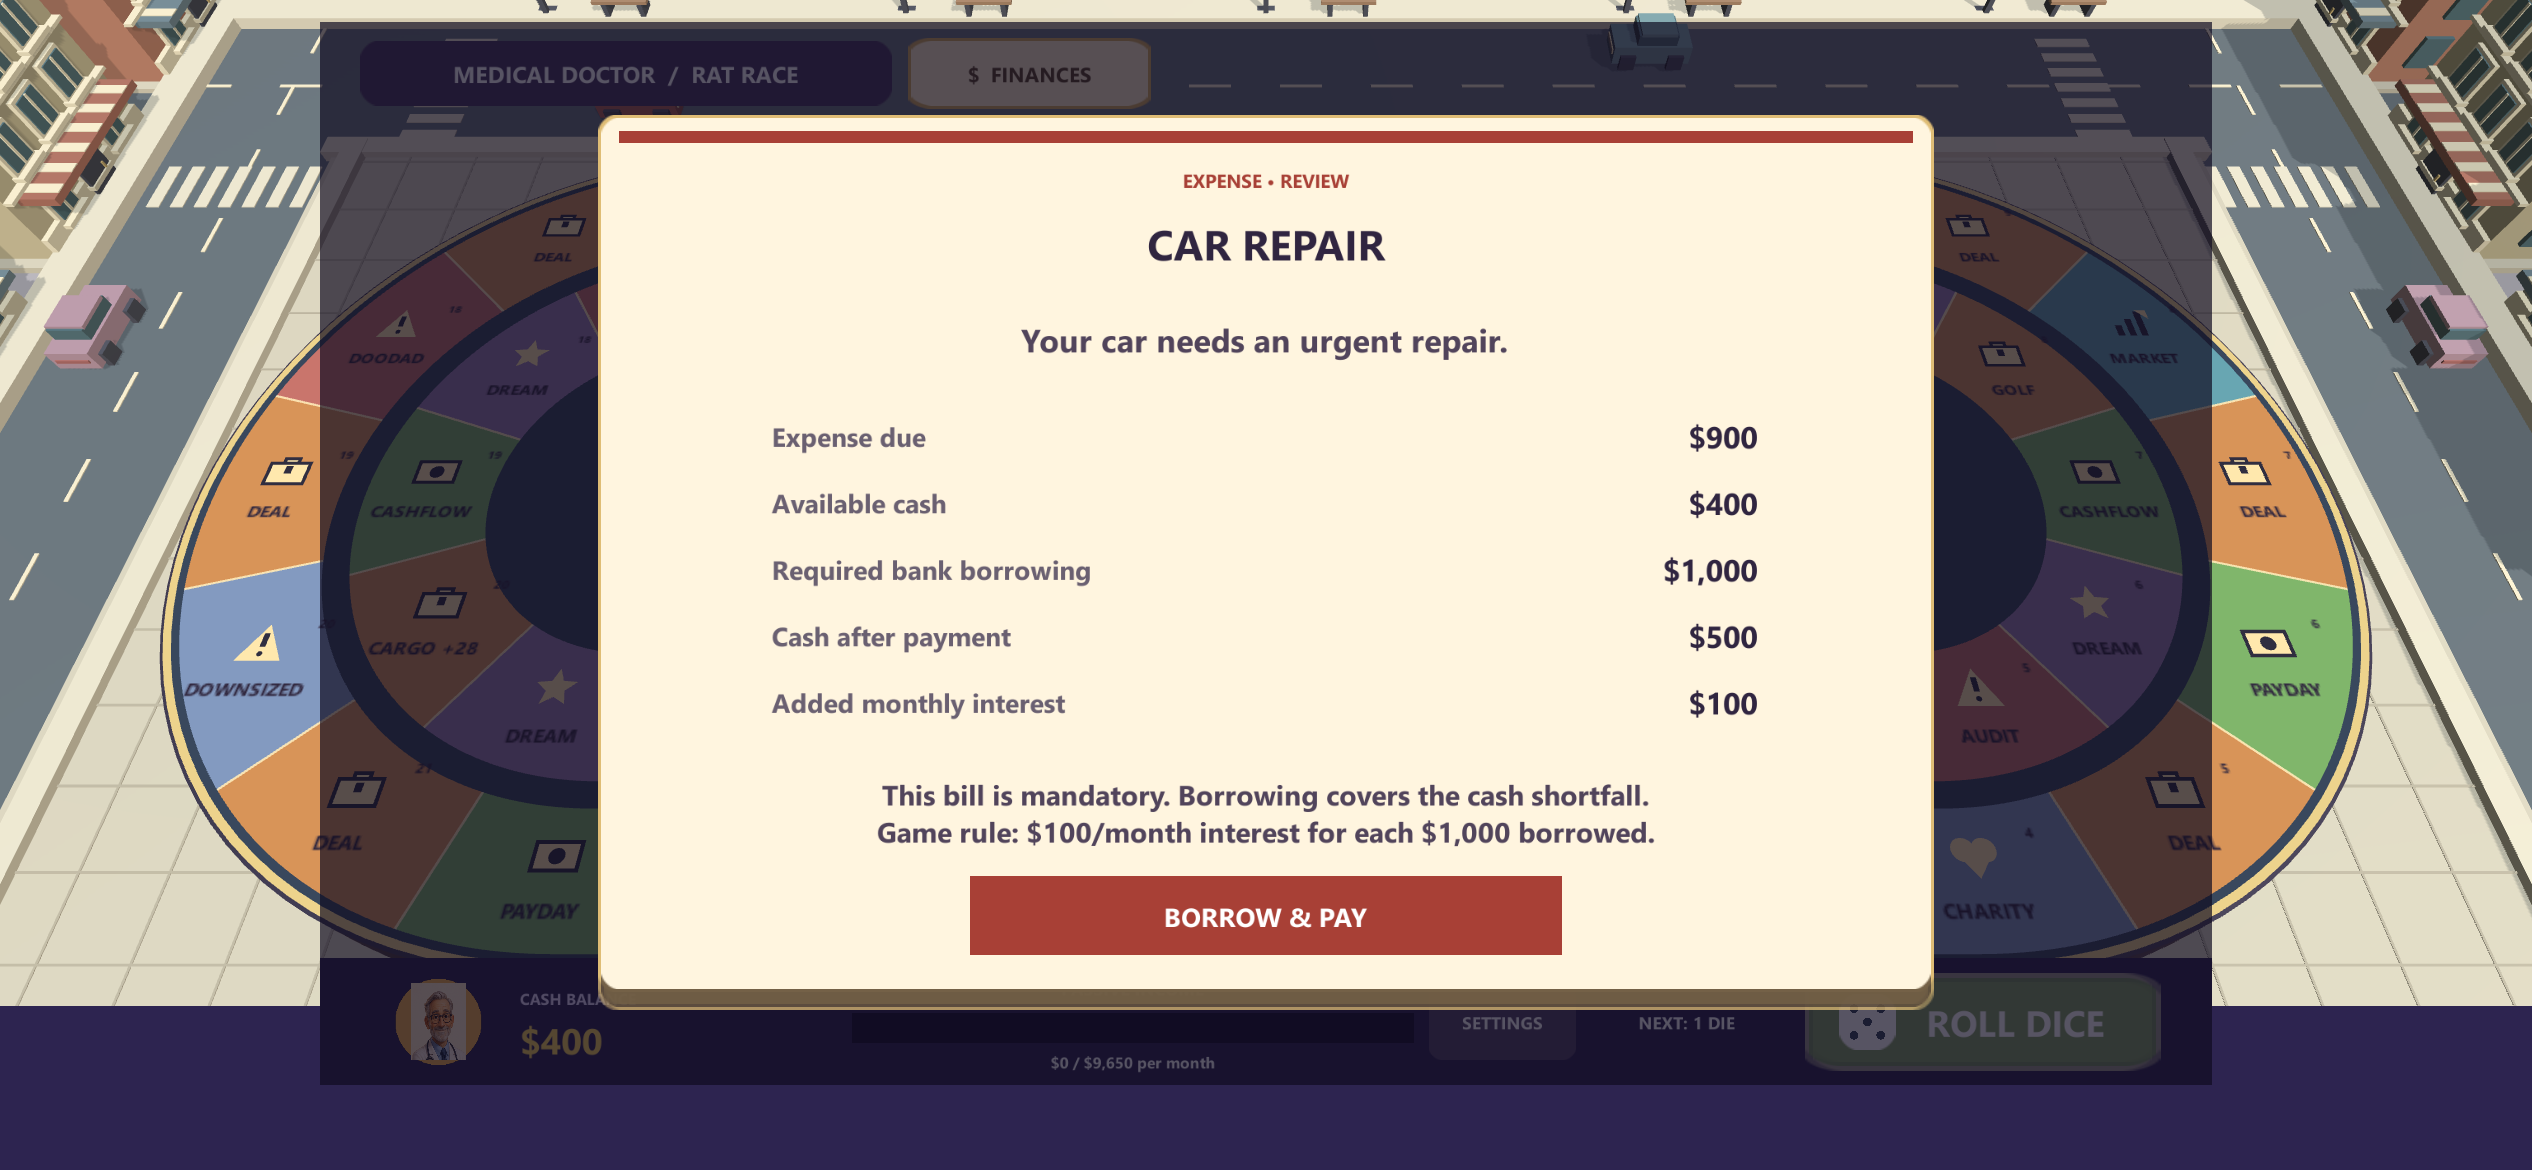
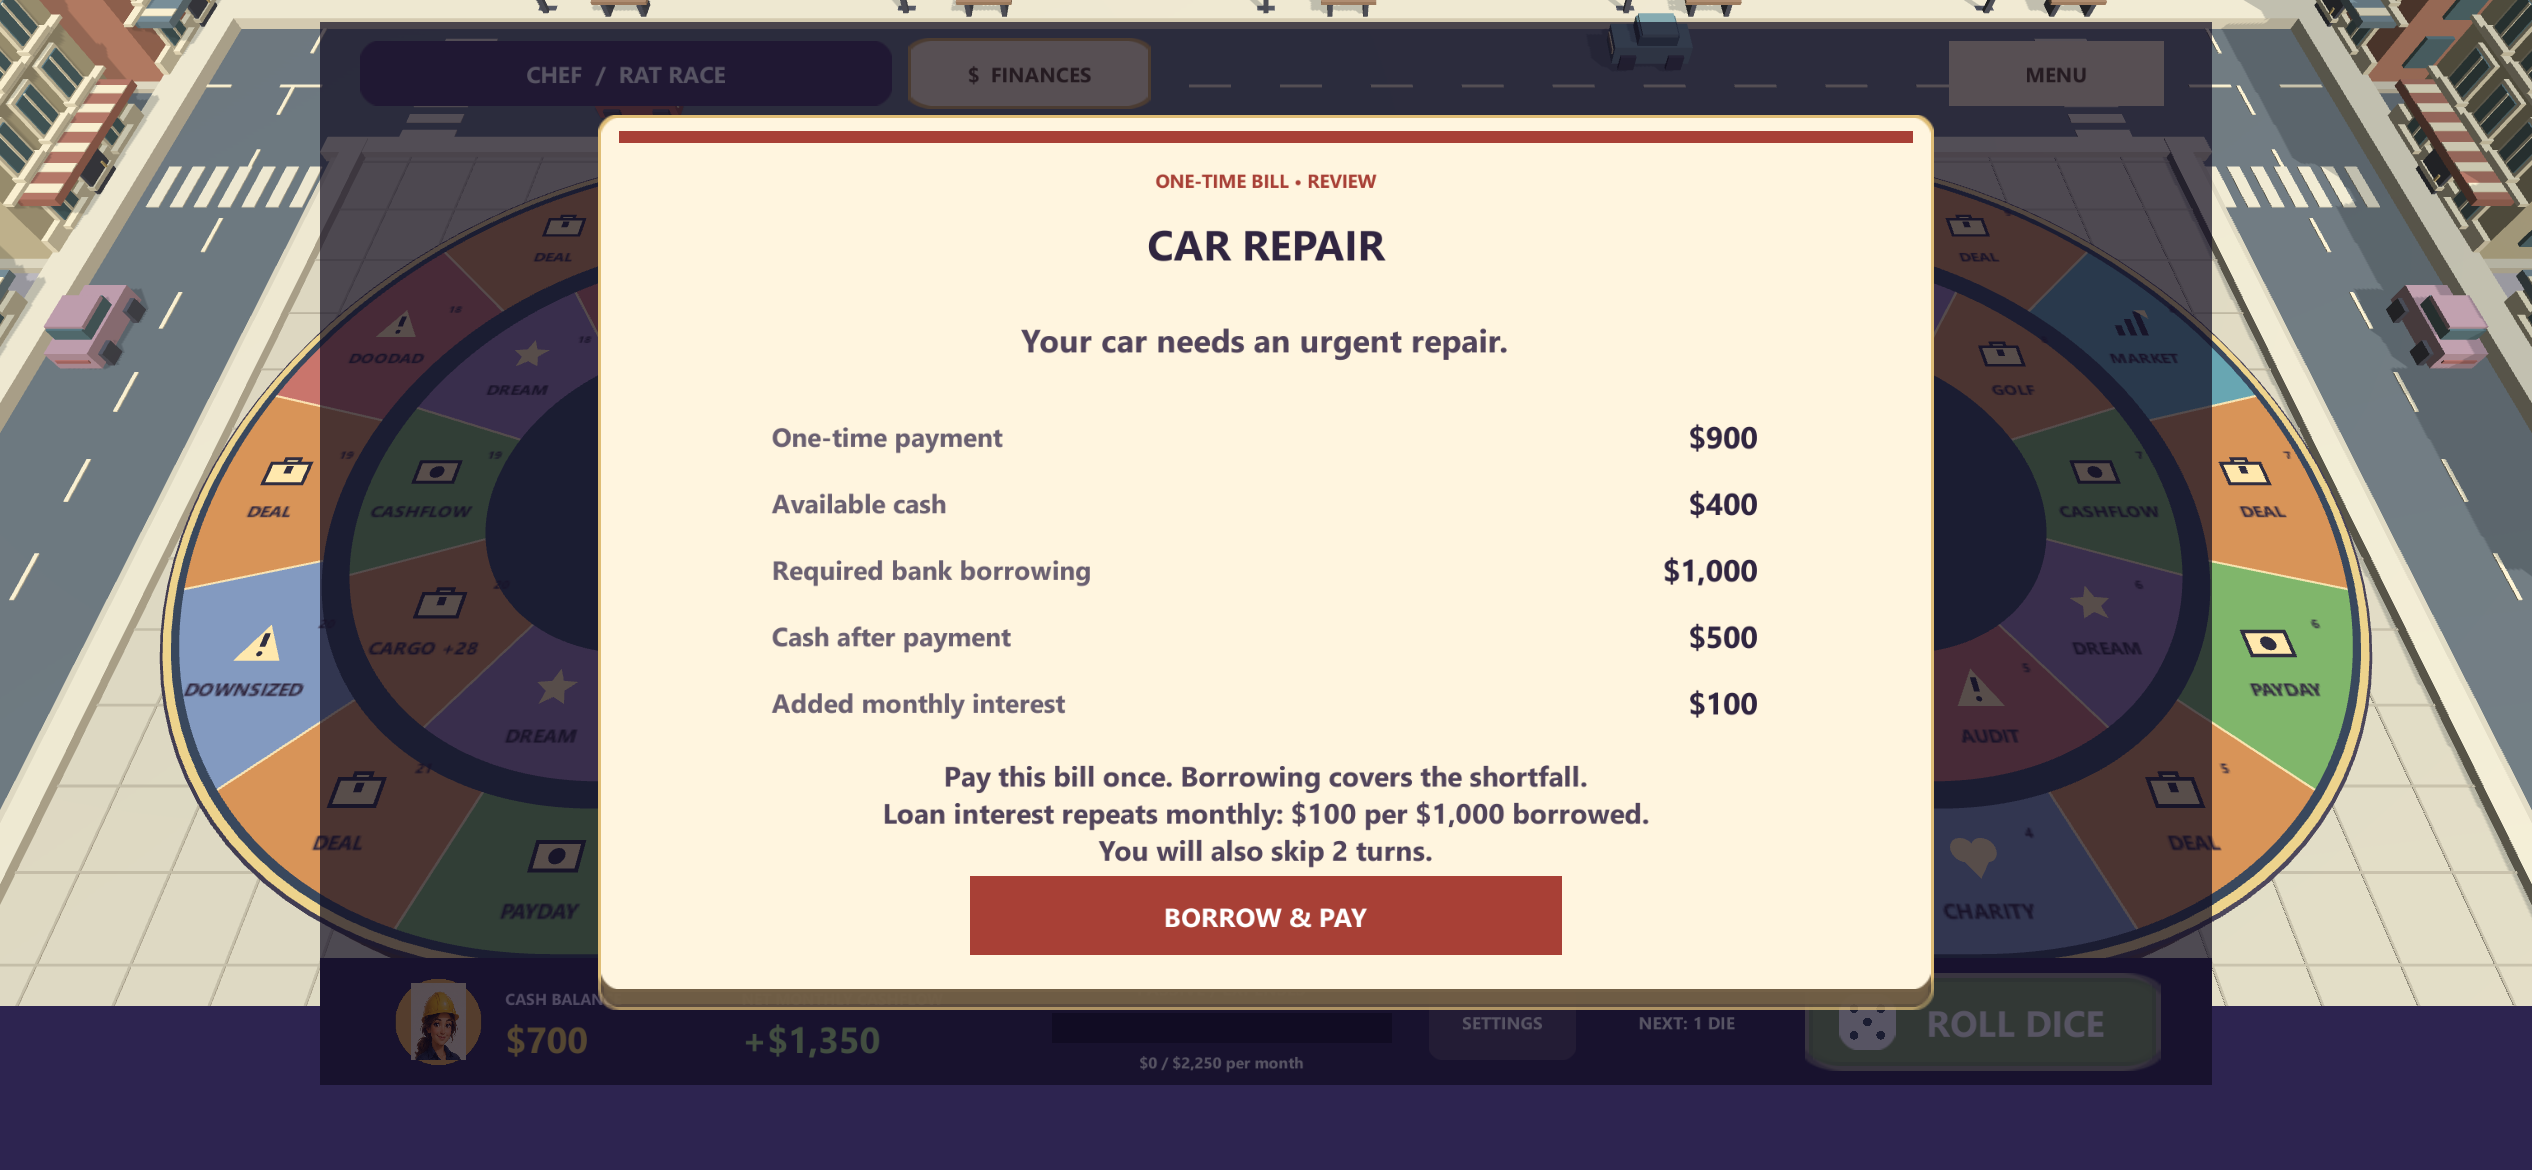
Implement event receipt system for better transaction feedback; enhance expense and income notifications

diff --git a/Assets/Editor/EventReceiptReview.cs b/Assets/Editor/EventReceiptReview.cs
@@ -1,0 +1,61 @@
+using System;
+using System.IO;
+using System.Reflection;
+using UnityEditor;
+using UnityEngine;
+using UnityEngine.UI;
+
+[InitializeOnLoad]
+public static class EventReceiptReview
+{
+    const string Root="work/event-receipt-review/";
+    const BindingFlags F=BindingFlags.Instance|BindingFlags.NonPublic;
+    static bool running;static int step;static double next;
+    static CashflowGame G=>UnityEngine.Object.FindObjectOfType<CashflowGame>();
+    static object Call(string name,params object[] args)=>typeof(CashflowGame).GetMethod(name,F).Invoke(G,args);
+    static object Get(string name)=>typeof(CashflowGame).GetField(name,F).GetValue(G);
+    static void Set(string name,object value)=>typeof(CashflowGame).GetField(name,F).SetValue(G,value);
+    static BoardEventReceipt R=>(BoardEventReceipt)Get("eventReceipt");
+    static void Check(bool value,string message){if(!value)throw new Exception(message);}
+    static void Shot(string name){
+        Canvas.ForceUpdateCanvases();ScreenCapture.CaptureScreenshot(Root+name+".png");
+        foreach(var t in UnityEngine.Object.FindObjectsOfType<Text>()){
+            if(t.transform.IsChildOf(R.transform)||t.transform.IsChildOf(((GameObject)Get("modal")).transform))
+                Check(t.preferredHeight<=t.rectTransform.rect.height+2,"Clipped text: "+t.text);
+        }
+    }
+    static EventReceiptReview(){EditorApplication.update+=Tick;}
+    static void Tick(){
+        if(EditorApplication.isCompiling)return;
+        if(File.Exists("work/run-event-receipt-review")){
+            if(!EditorApplication.isPlaying){EditorApplication.isPlaying=true;return;}
+            File.Delete("work/run-event-receipt-review");Directory.CreateDirectory(Root);running=true;step=0;next=EditorApplication.timeSinceStartup+2;
+        }
+        if(!running||EditorApplication.timeSinceStartup<next)return;
+        try{
+            switch(step){
+                case 0:Call("StartGame");((BoardWorld)Get("world")).ReducedMotion=true;break;
+                case 1:
+                    int before=(int)Get("cash"),net=(int)Call("Income")-(int)Call("Expenses");
+                    Call("CollectMovementPaydays",4,1);Call("Land","PAYDAY");
+                    Check((int)Get("cash")==before+net&&Get("modal")==null,"Landing duplicated payment or opened a blocking modal");
+                    Call("Refresh");Call("ShowDealChoice");Check(R.transform.GetSiblingIndex()>((GameObject)Get("modal")).transform.GetSiblingIndex(),"Next card obscures Payday receipt");
+                    Check(!R.GetComponent<CanvasGroup>().blocksRaycasts,"Receipt blocks input");Check(R.Title.text.Contains("PAYDAY"),"Missing Payday receipt");Shot("payday-with-deal");break;
+                case 2:Call("CloseModal");Set("cash",400);Call("ShowRequiredExpense","CAR REPAIR","Your car needs an urgent repair.",900,2);Shot("specific-bill");break;
+                case 3:
+                    var pay=GameObject.Find("Pay Required Expense").GetComponent<Button>();pay.onClick.Invoke();pay.onClick.Invoke();
+                    Check((int)Get("cash")==500&&(int)Get("bankLoan")==1000,"Expense payment duplicated or miscalculated");break;
+                case 4:Check(R.Title.text.Contains("CAR REPAIR")&&R.Detail.text.Contains("Monthly interest +$100"),"Expense receipt missing borrowing cost");Call("ShowStatement");Shot("paid-receipt");break;
+                case 5:Call("CloseModal");int cash=(int)Get("cash"),expense=(int)Call("Expenses");Call("Land","BABY");Check((int)Get("cash")==cash&&(int)Call("Expenses")>expense,"Recurring event changed cash");Shot("monthly-change");break;
+                case 6:Call("StartGame");break;
+                case 7:Set("fastTrack",true);Set("bankLoan",100000);Call("Payday");Check(R.Title.text.Contains("CASHFLOW DAY • -$"),"Negative Cashflow Day presented as collection");Call("Land","CASHFLOW DAY");Check(Get("modal")==null,"Cashflow Day blocks play");break;
+                case 8:
+                    // Verify FIFO instead of overwriting a receipt when two events arrive together.
+                    R.Show("SECOND RECEIPT","Queued",Color.black);Check(!R.Title.text.Contains("SECOND"),"Receipt overwritten");break;
+                case 11:Check(R.Title.text=="SECOND RECEIPT","Queued receipt never appeared");Call("StartGame");break;
+                case 12:Check(R.GetComponent<CanvasGroup>().alpha==0,"Old receipt survived a new game");File.WriteAllText(Root+"results.txt","PASS: landing paid once without modal; receipt visible above following deal and non-interactive; specific bill and borrowing receipt; duplicate-payment guard; recurring child expense without immediate cash charge; negative Fast Track receipt; FIFO queue and new-game reset; card text bounds. Screenshots at "+Screen.width+"x"+Screen.height+".\n");running=false;return;
+            }
+            step++;next=EditorApplication.timeSinceStartup+2;
+        }catch(Exception e){running=false;File.WriteAllText(Root+"results.txt","FAIL: "+e);Debug.LogException(e);}
+    }
+}

diff --git a/Assets/Scripts/CashflowFeedback.cs b/Assets/Scripts/CashflowFeedback.cs
@@ -4,6 +4,16 @@ using UnityEngine.UI;
 
 public partial class CashflowGame
 {
+    BoardEventReceipt eventReceipt;
+    void CreateEventReceipt()
+    {
+        var panel=Panel(uiRoot,Vector2.one*.5f,Vector2.one*.5f,new Vector2(480,50),C("#21756a"));panel.name="Board Event Receipt";
+        Place(panel.GetComponent<RectTransform>(),180,325,480,50);panel.GetComponent<Image>().sprite=RoundedSprite();panel.GetComponent<Image>().type=Image.Type.Sliced;panel.GetComponent<Image>().raycastTarget=false;
+        eventReceipt=panel.AddComponent<BoardEventReceipt>();eventReceipt.Background=panel.GetComponent<Image>();
+        eventReceipt.Title=Label(panel.transform,"",14);eventReceipt.Title.fontStyle=FontStyle.Bold;Place(eventReceipt.Title.rectTransform,0,10,460,23);
+        eventReceipt.Detail=Label(panel.transform,"",11);Place(eventReceipt.Detail.rectTransform,0,-12,460,20);
+    }
+    void Receipt(string title,string detail,Color color){if(eventReceipt!=null)eventReceipt.Show(title,detail,color);}
     class HistoryEntry { public string message,changes; }
     readonly List<HistoryEntry> history=new List<HistoryEntry>();
     int historyCash,historyFlow,historyDebt,lastRoll;
@@ -56,22 +66,27 @@ public partial class CashflowGame
     }
     void ShowUnexpectedExpense()
     {
+        string[] titles={"CAR REPAIR","APPLIANCE REPLACEMENT","HOME REPAIR","FAMILY TRIP"};
         string[] reasons={"Your car needs an urgent repair.","A broken appliance needs replacing.","An unexpected home repair bill arrives.","A family trip costs more than planned."};
-        ShowRequiredExpense("UNEXPECTED EXPENSE",reasons[Random.Range(0,reasons.Length)],Random.Range(100,1001),0);
+        int index=Random.Range(0,reasons.Length);
+        ShowRequiredExpense(titles[index],reasons[index],Random.Range(100,1001),0);
     }
     void ShowRequiredExpense(string title,string reason,int cost,int turns)
     {
         int loan=Mathf.CeilToInt(Mathf.Max(0,cost-cash)/1000f)*1000;
-        var card=CardShell("EXPENSE • REVIEW",title,C("#a84036"),new Vector2(900,590));
+        var card=CardShell("ONE-TIME BILL • REVIEW",title,C("#a84036"),new Vector2(900,590));
         var story=Label(card.transform,reason,22);story.color=C("#51445b");Place(story.rectTransform,0,145,810,70);
-        FinanceRow(card.transform,"Expense due",Money(cost),80);FinanceRow(card.transform,"Available cash",Money(cash),35);
+        FinanceRow(card.transform,"One-time payment",Money(cost),80);FinanceRow(card.transform,"Available cash",Money(cash),35);
         FinanceRow(card.transform,"Required bank borrowing",Money(loan),-10);FinanceRow(card.transform,"Cash after payment",Money(cash+loan-cost),-55);
         FinanceRow(card.transform,"Added monthly interest",Money(loan/10),-100);
-        var note=Label(card.transform,loan>0?"This bill is mandatory. Borrowing covers the cash shortfall.\nGame rule: $100/month interest for each $1,000 borrowed.":"Pay this bill once from your available cash.\nNo new borrowing is needed.",19);note.color=C("#51445b");Place(note.rectTransform,0,-175,810,70);
+        string noteText=loan>0?"Pay this bill once. Borrowing covers the shortfall.\nLoan interest repeats monthly: $100 per $1,000 borrowed.":"Pay this bill once. Your monthly expenses stay the same.";
+        if(turns>0)noteText+="\nYou will also skip "+turns+" turns.";
+        var note=Label(card.transform,noteText,19);note.color=C("#51445b");Place(note.rectTransform,0,-175,810,80);
         bool resolved=false;var pay=Button(card.transform,loan>0?"BORROW & PAY":"PAY EXPENSE",C("#a84036"),()=>{
             if(resolved)return;resolved=true;
             int needed=Mathf.CeilToInt(Mathf.Max(0,cost-cash)/1000f)*1000;bankLoan+=needed;cash+=needed-cost;skipTurns=turns;
             CloseModal();Log(title+": paid "+Money(cost)+(needed>0?"; borrowed "+Money(needed):"")+(turns>0?"; skip "+turns+" turns.":"."));Refresh();world.Audio.Expense();
+            Receipt(title+" • PAID "+Money(cost),needed>0?"Borrowed "+Money(needed)+" • Monthly interest +"+Money(needed/10):"One-time payment • Monthly cashflow unchanged",C("#873d3a"));
         });pay.name="Pay Required Expense";Place(pay.GetComponent<RectTransform>(),0,-245,400,54);SetButtonText(pay,Color.white,18);
     }
 }

diff --git a/Assets/Scripts/CashflowGame.cs b/Assets/Scripts/CashflowGame.cs
@@ -180,6 +180,7 @@ public partial class CashflowGame : MonoBehaviour
         Place(settings.GetComponent<RectTransform>(),160,0,100,52);
         settings.GetComponent<Image>().sprite=RoundedSprite();
         SetButtonText(settings,Color.white,12);
+        CreateEventReceipt();
 
     }
     void ShowBoardSettings()
@@ -201,6 +202,7 @@ public partial class CashflowGame : MonoBehaviour
     GameObject Modal(Vector2 size)
     {
         CloseModal(); modal=Panel(uiRoot,Vector2.zero,Vector2.one,Vector2.zero,new Color(.06f,.04f,.12f,.7f));modal.name="Modal Blocker";
+        if(eventReceipt!=null)eventReceipt.transform.SetAsLastSibling();
         var panel=Panel(modal.transform,new Vector2(.5f,.5f),new Vector2(.5f,.5f),size,C("#302540"));panel.GetComponent<Image>().sprite=RoundedSprite();panel.GetComponent<Image>().type=Image.Type.Sliced;
         if(world!=null)world.InputBlocked=true;if(rollButton!=null)rollButton.interactable=false;return panel;
     }
@@ -323,18 +325,18 @@ public partial class CashflowGame : MonoBehaviour
     }
     void Land(string tile)
     {
-        if(tile=="PAYDAY"){ ShowEventPanel("PAYDAY","Your monthly cashflow was added to cash.\n\nCollected: "+Money(Income()-Expenses()),C("#a16207")); return; }
+        if(tile=="PAYDAY")return; // Movement already paid and displayed its receipt.
         if(tile=="OPPORTUNITY"){ ShowDealChoice(); return; }
         if(tile=="DOODAD"){ ShowUnexpectedExpense(); return; }
         if(tile=="CHARITY"){ShowCharityChoice();return;}
-        if(tile=="BABY"){ if(children>=3){ShowEventPanel("FAMILY UPDATE","Your family is already at the three-child game limit. Monthly expenses stay the same.",C("#be185d"));return;}children++; Log("A new baby joins the family. Expenses increased."); ShowEventPanel("BABY","Your family grew.\n\nMonthly expenses increased by "+Money(profession.childPay)+".",C("#be185d")); return; }
+        if(tile=="BABY"){ if(children>=3){ShowEventPanel("FAMILY UPDATE","Your family is already at the three-child game limit. Monthly expenses stay the same.",C("#be185d"));return;}children++; Log("New baby: monthly expenses +"+Money(profession.childPay)+"; monthly cashflow -"+Money(profession.childPay)+"."); ShowEventPanel("NEW BABY • MONTHLY CHANGE","Monthly expenses +"+Money(profession.childPay)+"\nNet monthly cashflow -"+Money(profession.childPay)+"\n\nThis repeats each month. No cash is paid now.",C("#be185d")); return; }
         if(tile=="DOWNSIZED"){ ShowRequiredExpense("DOWNSIZED","Your job is interrupted. Pay one month of expenses, then skip two turns.",Expenses(),2); return; }
         if(tile=="MARKET"){ ShowMarketOffer(); return; }
         if(fastTrack)ResolveFastTrack(tile);
     }
     int Expenses(){return profession.taxes+PersonalDebtPayments()+profession.other+children*profession.childPay+LoanPayment();}
     int Income(){return (fastTrack?0:profession.salary)+passive;}
-    void Payday(){int amount=Income()-Expenses();cash+=amount;Log("PAYDAY: collected "+Money(amount));if(world!=null)world.Audio.Payday();}
+    void Payday(){int amount=Income()-Expenses();cash+=amount;string title=fastTrack?"CASHFLOW DAY":"PAYDAY";Log(title+": cash "+SignedMoney(amount)+".");Receipt(title+" • "+SignedMoney(amount),"Income "+Money(Income())+" − expenses "+Money(Expenses())+" • Cash now "+Money(cash),amount<0?C("#873d3a"):C("#21756a"));if(world!=null)world.Audio.Payday();}
     void CheckEscape(){if(!fastTrack&&passive>Expenses()){fastTrack=true;fastPosition=0;fastTrackIntro=true;DrawBoard();MoveToken();Log("You escaped the Rat Race! Welcome to the Fast Track.");}}
     void Refresh()
     {

diff --git a/Assets/Scripts/CashflowFastTrack.cs b/Assets/Scripts/CashflowFastTrack.cs
@@ -14,7 +14,7 @@ public partial class CashflowGame
     {
         if(tile=="CASHFLOW DAY")
         {
-            ShowEventPanel("CASHFLOW DAY","Collected net investment cashflow: "+Money(Income()-Expenses())+"\n\nInvestment income: "+Money(passive)+"\nExpenses: "+Money(Expenses()),C("#21756a"));return;
+            return; // Movement owns both the payment and its non-blocking receipt.
         }
         if(tile=="DREAM"){ShowDreamPurchase();return;}
         if(tile.Contains("+"))
@@ -24,7 +24,7 @@ public partial class CashflowGame
         }
         int loss=tile=="TAX AUDIT"?cash/10:tile=="LAWSUIT"?Mathf.Min(cash,25000):tile=="DIVORCE"?cash/2:cash/5;
         loss=Mathf.Max(0,loss);cash-=loss;Log(tile+": paid "+Money(loss)+".");
-        ShowEventPanel(tile,"Cash cost: "+Money(loss)+"\n\n"+(tile=="TAX AUDIT"?"An audit costs 10% of available cash.":tile=="LAWSUIT"?"A legal settlement costs up to $25,000 from available cash.":tile=="DIVORCE"?"A settlement divides your available cash in half.":"A market correction costs 20% of available cash.")+"\nYour investments and debts remain.",C("#a84036"));
+        ShowEventPanel(tile,"One-time payment made: "+Money(loss)+"\n\n"+(tile=="TAX AUDIT"?"An audit costs 10% of available cash.":tile=="LAWSUIT"?"A legal settlement costs up to $25,000 from available cash.":tile=="DIVORCE"?"A settlement divides your available cash in half.":"A market correction costs 20% of available cash.")+"\nInvestments, debts and monthly cashflow are unchanged.",C("#a84036"));
     }
     bool PurchaseDream()
     {

diff --git a/Assets/Scripts/BoardEventReceipt.cs b/Assets/Scripts/BoardEventReceipt.cs
@@ -1,0 +1,22 @@
+using System.Collections.Generic;
+using UnityEngine;
+using UnityEngine.UI;
+
+// A separate, non-interactive receipt survives modal changes but belongs to this board.
+public sealed class BoardEventReceipt : MonoBehaviour
+{
+    struct Receipt { public string title,detail; public Color color; }
+    readonly Queue<Receipt> pending=new Queue<Receipt>();
+    public Text Title,Detail;
+    public Image Background;
+    CanvasGroup group;
+    float remaining;
+    void Awake(){group=gameObject.AddComponent<CanvasGroup>();group.blocksRaycasts=false;group.interactable=false;group.alpha=0;}
+    public void Show(string title,string detail,Color color){pending.Enqueue(new Receipt{title=title,detail=detail,color=color});if(remaining<=0)Next();}
+    void Next(){
+        if(pending.Count==0){group.alpha=0;return;}
+        var receipt=pending.Dequeue();Title.text=receipt.title;Detail.text=receipt.detail;Background.color=receipt.color;
+        group.alpha=1;remaining=6;transform.SetAsLastSibling();
+    }
+    void Update(){if(remaining<=0)return;remaining-=Time.unscaledDeltaTime;if(remaining<=0)Next();}
+}
